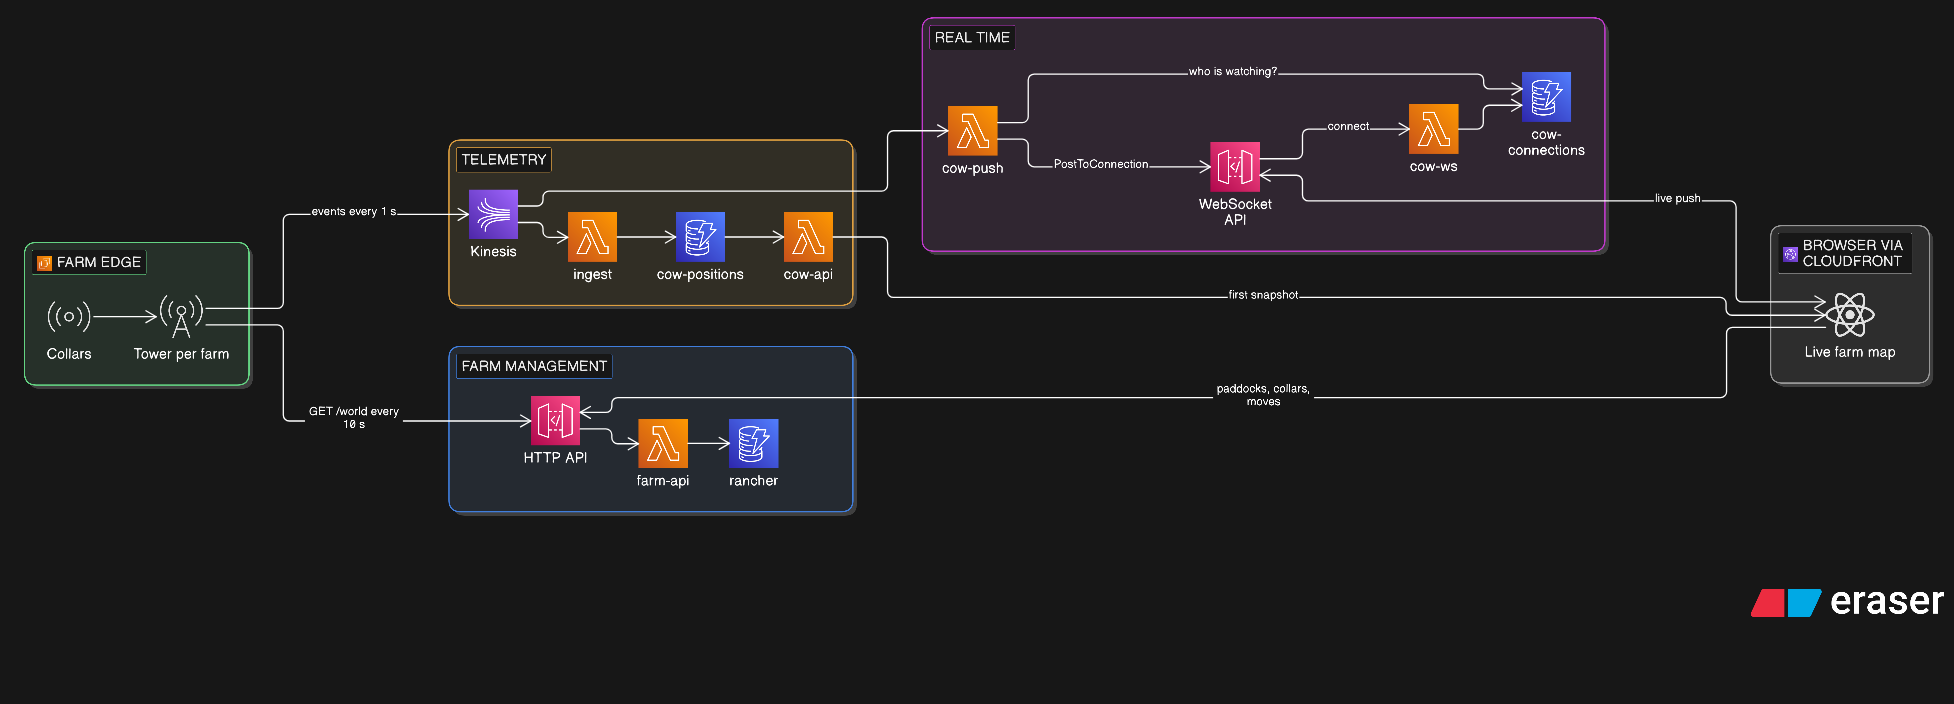
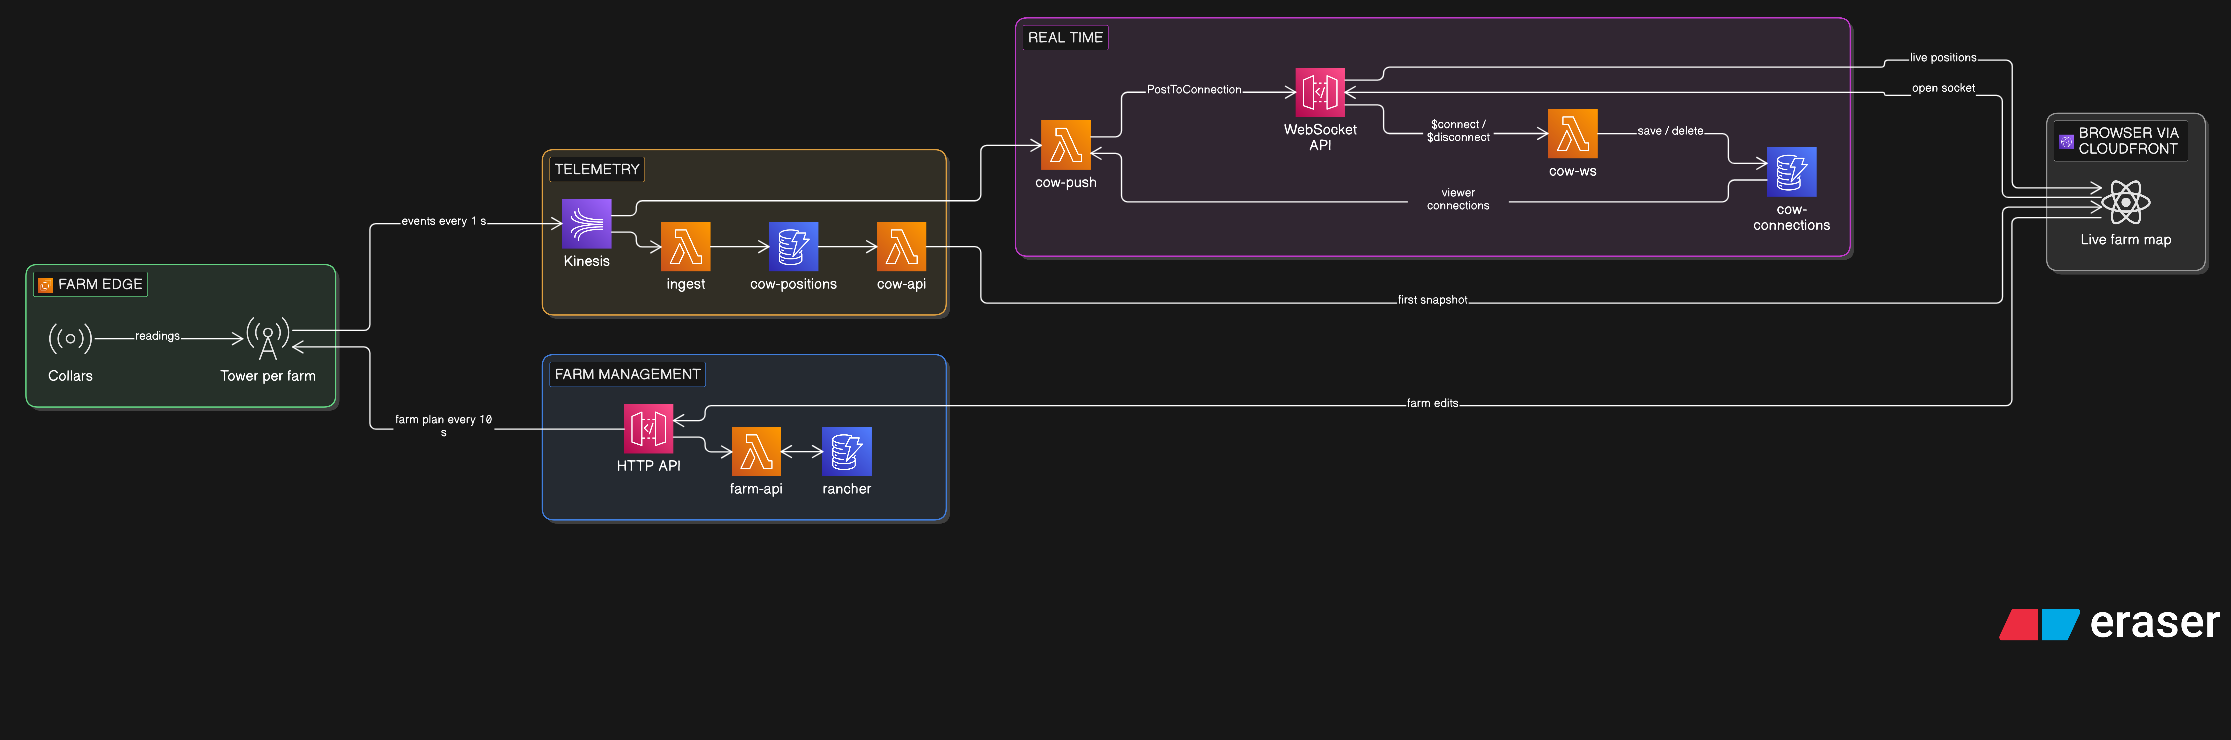
Update architecture documentation in README and diagrams
Enhanced the README with a new description of data flow in the architecture, clarifying the roles of various components. Updated the architecture diagram files to reflect recent changes in data connections and interactions, improving overall documentation for better understanding of the system.

diff --git a/README.md b/README.md
@@ -63,6 +63,8 @@ Everything on the map is live: positions arrive about once a second, and the gre
   <img src="docs/architecture.png" alt="Collars and towers send events every second to Kinesis. An ingest Lambda stores the latest position per collar in DynamoDB, served by cow-api. A cow-push Lambda looks up who is watching in a connections table and pushes positions over an API Gateway WebSocket to the browser. The browser edits the farm through an HTTP API and farm-api Lambda backed by a single DynamoDB table, which towers read every 10 seconds.">
 </picture>
 
+<sub>Arrows point the way data flows. farm-api both reads and writes the farm table.</sub>
+
 Three loops run through the system.
 
 **1. Telemetry: collar to map in about a second**
